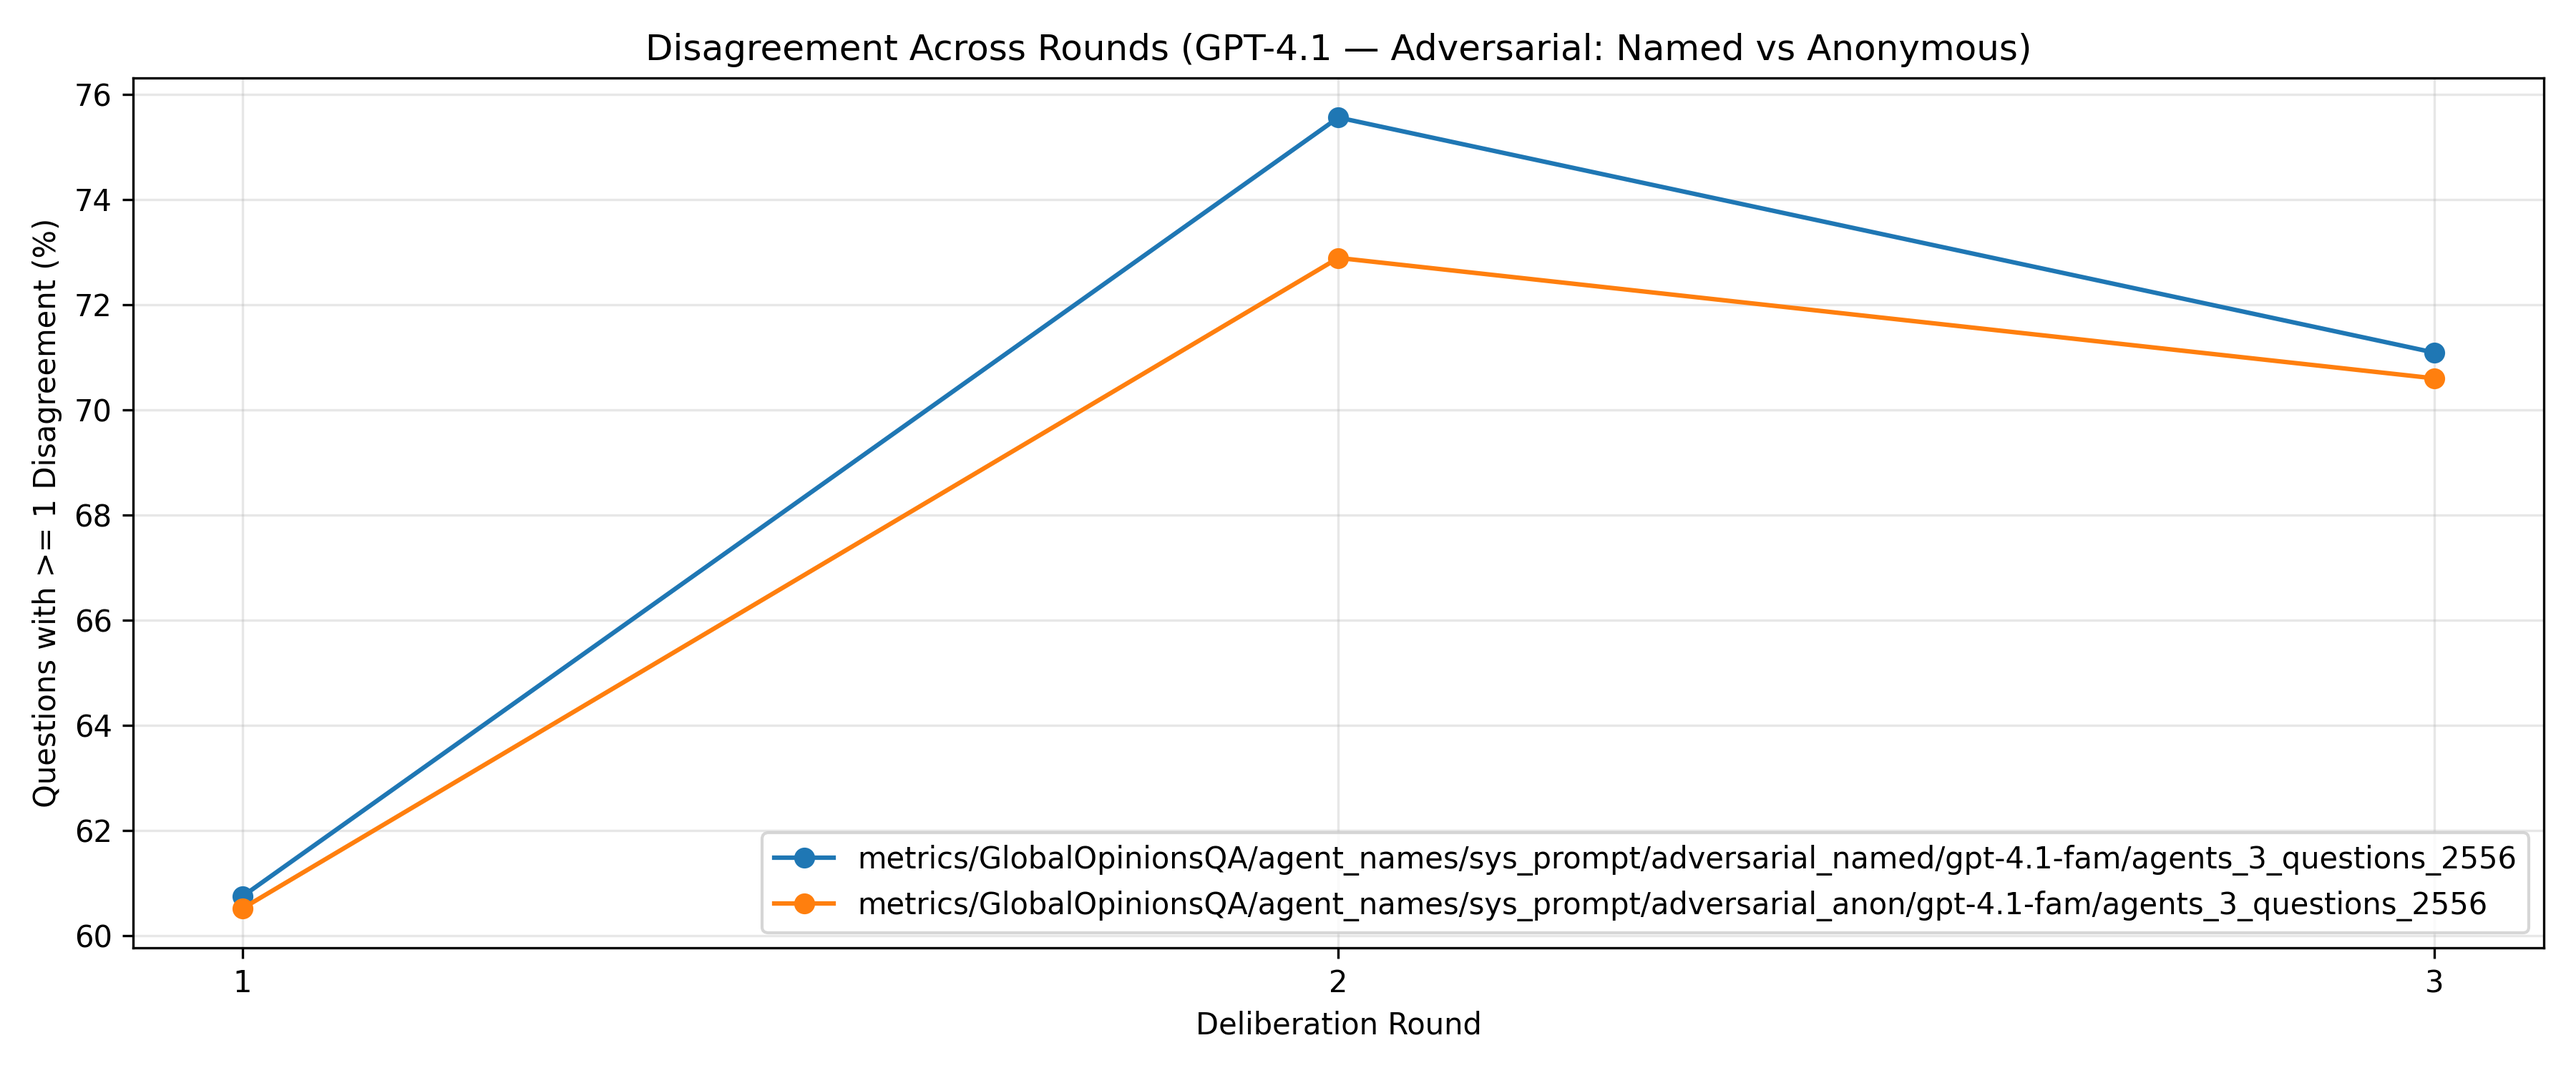
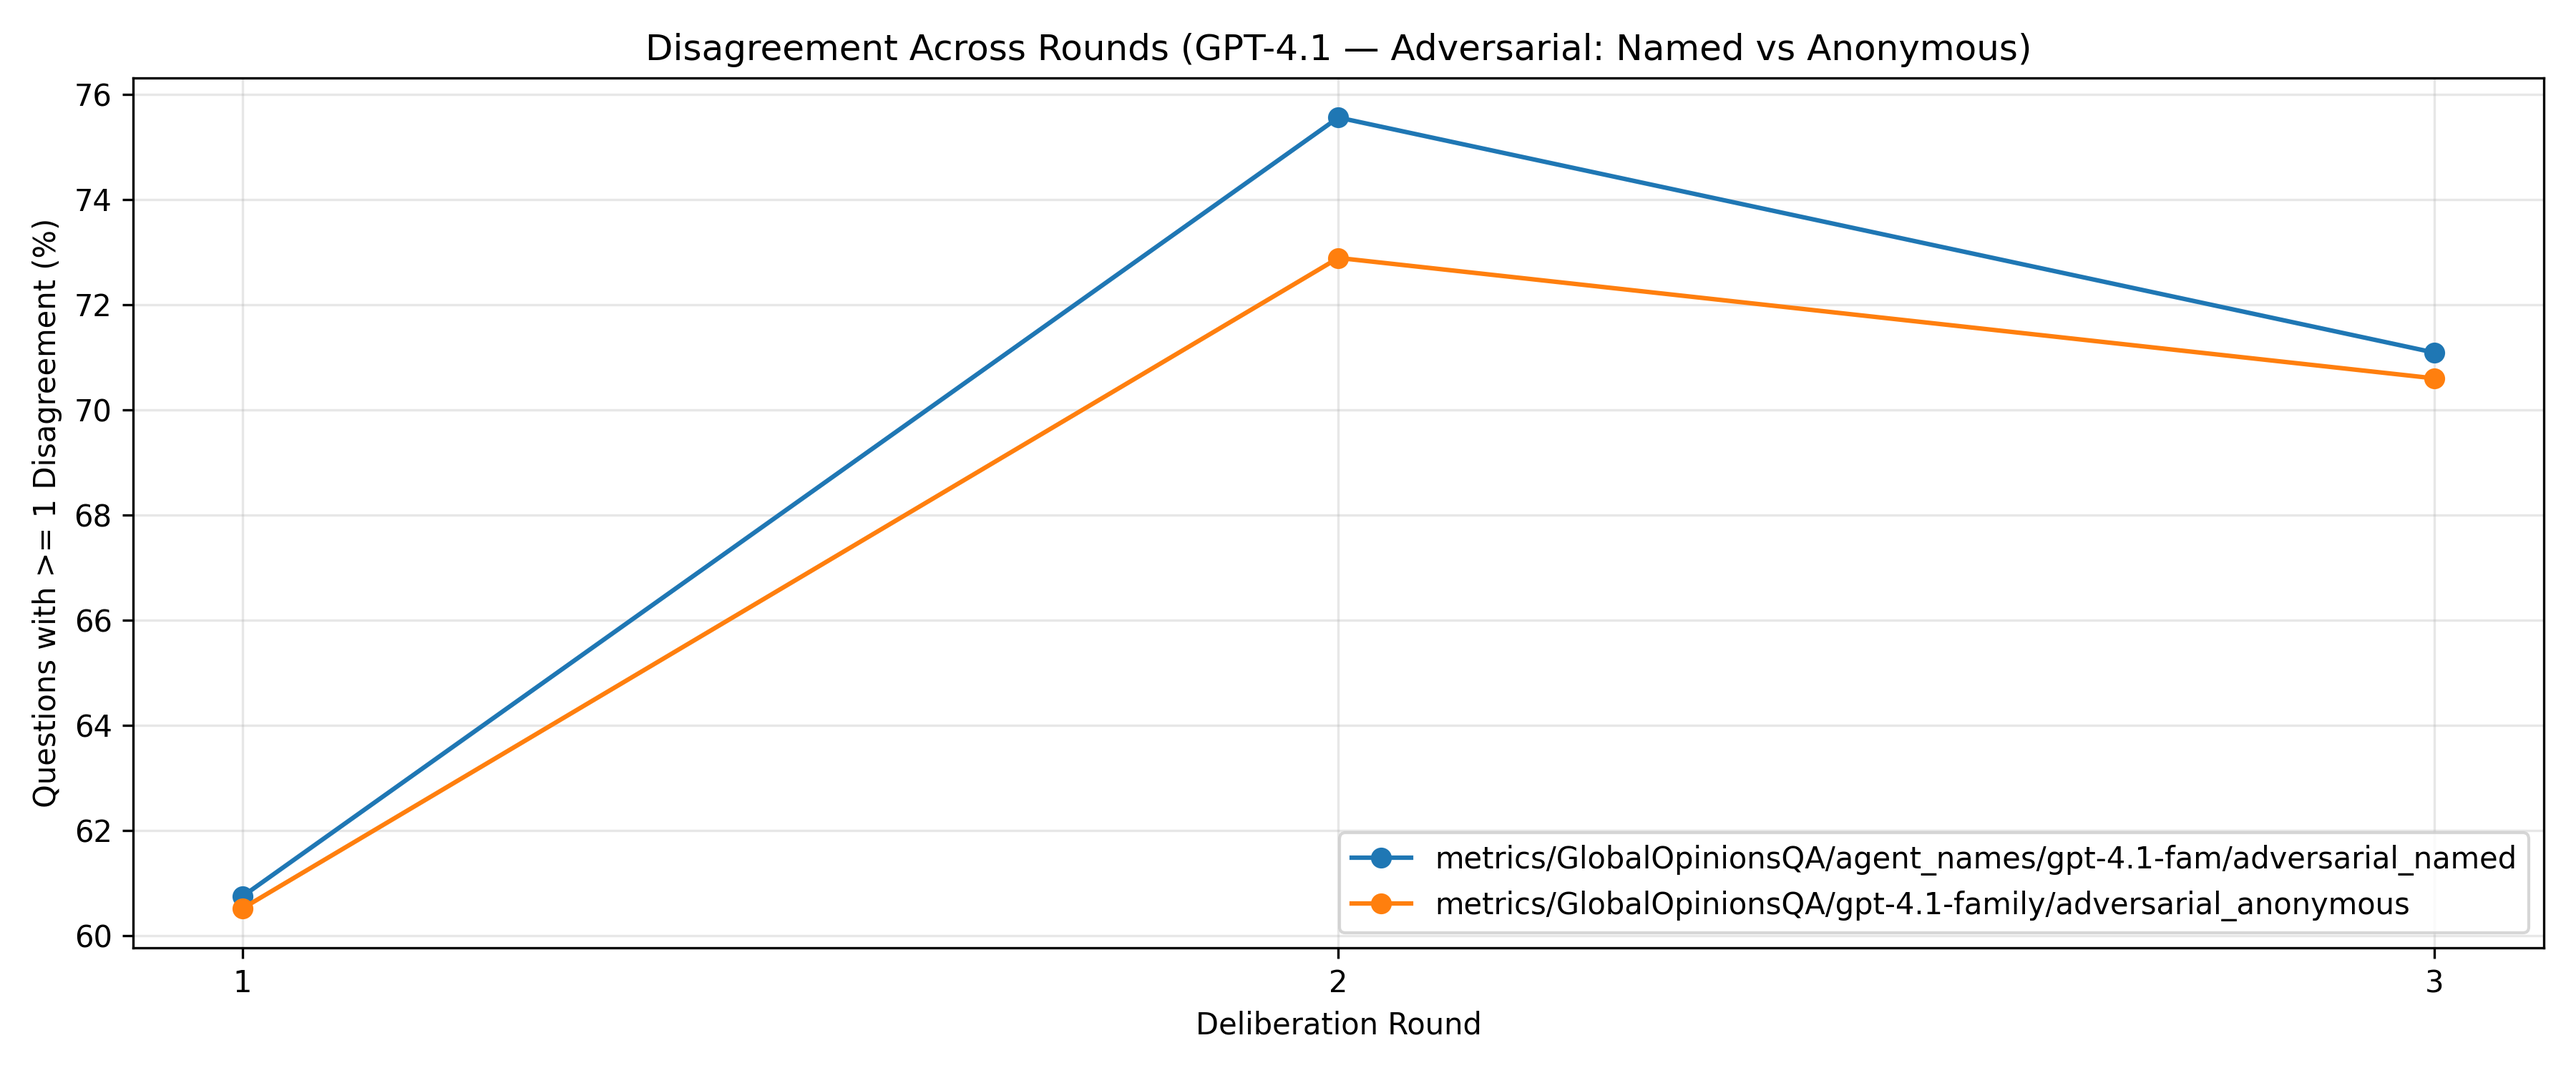
Fixed graphs

Changed region(s): [[0.28, 0.7667, 0.9644, 0.8587]]

diff --git a/all_plots.py b/all_plots.py
@@ -84,13 +84,13 @@ DIRECTIONAL_JSON_GPT41_NO_SEE_ROTATED = os.path.join(
 
 METRICS_GPT41_SEE_NORMAL   = "metrics/GlobalOpinionsQA/agent_names/gpt-4.1-fam/agents_3_questions_2556"
 METRICS_GPT41_SEE_ROTATED  = "metrics/GlobalOpinionsQA/agent_names/gpt-4.1-fam/agents_3_questions_2556_rotated"
-METRICS_GPT41_SEE_INDEP    = "metrics/GlobalOpinionsQA/agent_names/sys_prompt/indep/gpt-4.1-fam/agents_3_questions_2556_rotated"
+METRICS_GPT41_SEE_INDEP    = "metrics/GlobalOpinionsQA/agent_names/gpt-4.1-fam/critical_independent_named"
 METRICS_GPT41_NO_SEE_NORMAL  = "metrics/GlobalOpinionsQA/gpt-4.1-family/agents_3_questions_2089"
 METRICS_GPT41_NO_SEE_ROTATED = "metrics/GlobalOpinionsQA/gpt-4.1-family/agents_3_questions_2089_rotated"
 
-METRICS_GPT41_SEE_INDEP_ANON       = "metrics/GlobalOpinionsQA/agent_names/sys_prompt/indep_anon/gpt-4.1-fam/agents_3_questions_2556"
-METRICS_GPT41_SEE_ADVERSARIAL_ANON = "metrics/GlobalOpinionsQA/agent_names/sys_prompt/adversarial_anon/gpt-4.1-fam/agents_3_questions_2556"
-METRICS_GPT41_SEE_ADVERSARIAL_NAMED = "metrics/GlobalOpinionsQA/agent_names/sys_prompt/adversarial_named/gpt-4.1-fam/agents_3_questions_2556"
+METRICS_GPT41_SEE_INDEP_ANON       = "metrics/GlobalOpinionsQA/gpt-4.1-family/critical_independent_anonymous"
+METRICS_GPT41_SEE_ADVERSARIAL_ANON = "metrics/GlobalOpinionsQA/gpt-4.1-family/adversarial_anonymous"
+METRICS_GPT41_SEE_ADVERSARIAL_NAMED = "metrics/GlobalOpinionsQA/agent_names/gpt-4.1-fam/adversarial_named"
 
 METRICS_RANDOM_SEE_NORMAL   = "metrics/GlobalOpinionsQA/agent_names/random_models/agents_3_questions_2556"
 METRICS_RANDOM_SEE_ROTATED  = "metrics/GlobalOpinionsQA/agent_names/random_models/agents_3_questions_2556_rotated"
@@ -430,10 +430,10 @@ if __name__ == "__main__":
         out_name="rounds_random_no_see_normal_vs_rotated.png",
     )
 
-    # ── Rounds disagreement: GPT-4.1 — normal vs critical-independent anonymous ─
+    # ── Rounds disagreement: GPT-4.1 — normal anonymous vs critical-independent anonymous ─
     plot_rounds_disagreement(
-        folders=[METRICS_GPT41_SEE_NORMAL, METRICS_GPT41_SEE_INDEP_ANON],
-        title="Disagreement Across Rounds (GPT-4.1 — Normal vs Critical-Independent Anonymous)",
+        folders=[METRICS_GPT41_NO_SEE_NORMAL, METRICS_GPT41_SEE_INDEP_ANON],
+        title="Disagreement Across Rounds (GPT-4.1 — Normal Anon vs Critical-Independent Anon)",
         out_dir=FIG_DIR_ROUNDS,
         out_name="rounds_gpt41_NORMAL_vs_CRITICAL_INDEP_ANONYMOUS.png",
     )
@@ -446,10 +446,10 @@ if __name__ == "__main__":
         out_name="rounds_gpt41_CRITICAL_INDEP_NAMED_vs_ANONYMOUS.png",
     )
 
-    # ── Rounds disagreement: GPT-4.1 — normal vs adversarial anonymous ───────
+    # ── Rounds disagreement: GPT-4.1 — normal anonymous vs adversarial anonymous ─
     plot_rounds_disagreement(
-        folders=[METRICS_GPT41_SEE_NORMAL, METRICS_GPT41_SEE_ADVERSARIAL_ANON],
-        title="Disagreement Across Rounds (GPT-4.1 — Normal vs Adversarial Anonymous)",
+        folders=[METRICS_GPT41_NO_SEE_NORMAL, METRICS_GPT41_SEE_ADVERSARIAL_ANON],
+        title="Disagreement Across Rounds (GPT-4.1 — Normal Anon vs Adversarial Anon)",
         out_dir=FIG_DIR_ROUNDS,
         out_name="rounds_gpt41_NORMAL_vs_ADVERSARIAL_ANONYMOUS.png",
     )

diff --git a/all_models_disagree.py b/all_models_disagree.py
@@ -419,16 +419,16 @@ if __name__ == "__main__":
         (ROTATED_GPT41_RESULTS_DIR_NO_SEE_NAMES,
          "metrics/GlobalOpinionsQA/gpt-4.1-family/agents_3_questions_2089_rotated"),
          (INDEP_PRMPT_GPT41_RESULTS_DIR_SEE_NAMES,
-          "metrics/GlobalOpinionsQA/agent_names/sys_prompt/indep/gpt-4.1-fam/agents_3_questions_2556_rotated"
+          "metrics/GlobalOpinionsQA/agent_names/gpt-4.1-fam/critical_independent_named"
           ),
          (INDEP_PRMPT_GPT41_RESULTS_DIR_ANON,
-          "metrics/GlobalOpinionsQA/agent_names/sys_prompt/indep_anon/gpt-4.1-fam/agents_3_questions_2556"
+          "metrics/GlobalOpinionsQA/gpt-4.1-family/critical_independent_anonymous"
           ),
          (ADVERSARIAL_GPT41_RESULTS_DIR_ANON,
-          "metrics/GlobalOpinionsQA/agent_names/sys_prompt/adversarial_anon/gpt-4.1-fam/agents_3_questions_2556"
+          "metrics/GlobalOpinionsQA/gpt-4.1-family/adversarial_anonymous"
           ),
          (ADVERSARIAL_GPT41_RESULTS_DIR_NAMED,
-          "metrics/GlobalOpinionsQA/agent_names/sys_prompt/adversarial_named/gpt-4.1-fam/agents_3_questions_2556"
+          "metrics/GlobalOpinionsQA/agent_names/gpt-4.1-fam/adversarial_named"
           )
     ]
 
